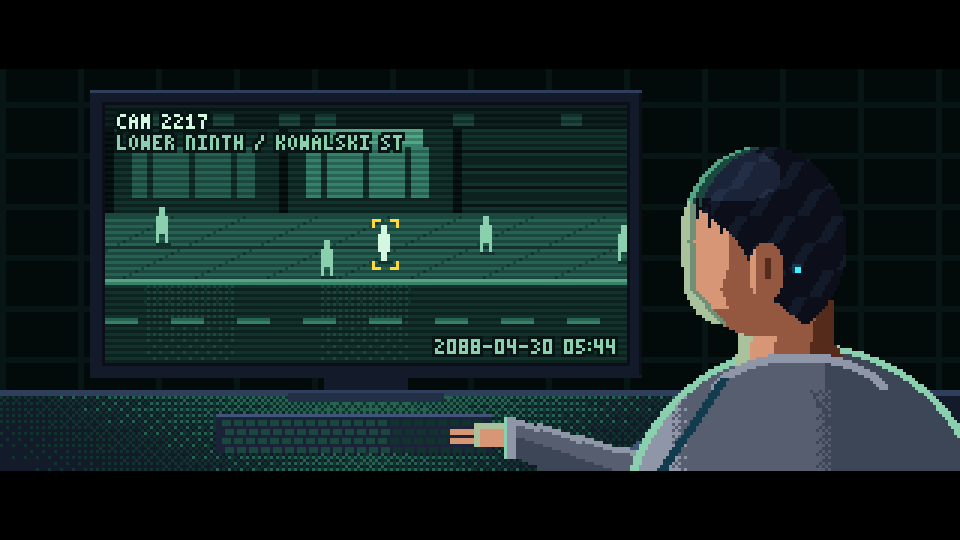
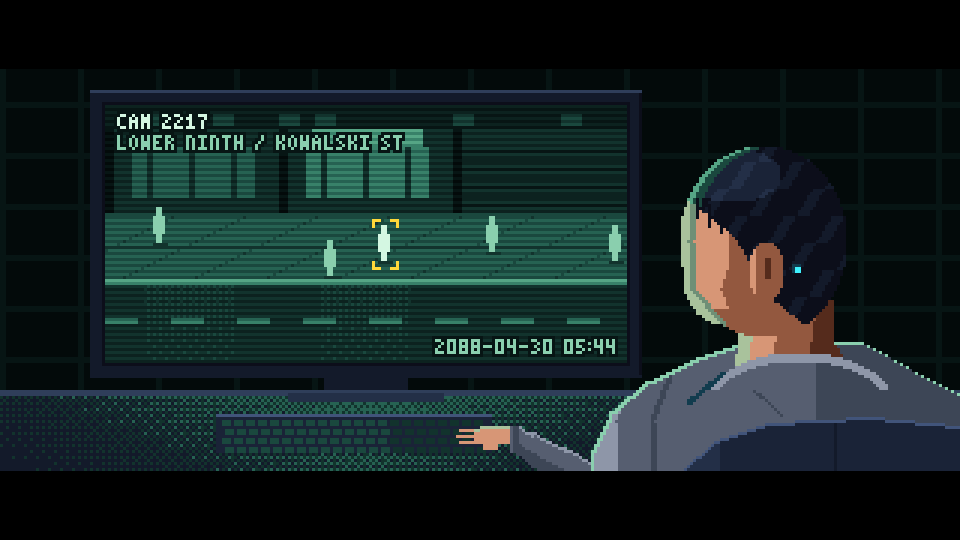
The intro's shots 2 and 4 after the notes. Juno's body at the desk is redrawn with a person's proportions instead of a dome: shoulders about two and a half heads wide, the near one falling away into the arm with its seam, the far one running out of the picture, flat bands of the grey with the monito

diff --git a/assets/intro.js b/assets/intro.js
@@ -1,7 +1,7 @@
 // Generated by tools/build-atlas.mjs. Do not edit.
 Cutaway.assets.pack({
   images: {
[2 lines of base64/hex data omitted]
   },
   anims: {
     "intro_desk_bg": { image: "intro_atlas", frames: [[1,1,320,180,100]] },

diff --git a/art/intro/desk.px.js b/art/intro/desk.px.js
@@ -70,32 +70,41 @@ function paint(c, mode) {
   c.rect(72, 138, 92, 13, "B"); c.hline(72, 138, 92, "E")
   for (let y = 140; y < 150; y += 3) for (let x = 74 + (y % 2); x < 161; x += 4) c.rect(x, y, 3, 2, x < 130 ? "4" : "3")
 
-  // Juno. Her chair's rim behind her, low on the right
-  for (let y = 120; y < H; y++) for (let x = 196; x < W; x++) {
-    if (inE(x, y, 268, 196, 84, 66)) c.px(x, y, inE(x, y, 268, 197, 82, 63) ? (x < 232 ? "C" : "B") : "E")
-  }
-  // the far arm's forearm comes out past her body to the keys; the sleeve, its cuff, the hand is the game's
+  // Juno, from behind: her shoulders about two and a half heads wide, the near one falling away to the arm, the far
+  // one running out of the picture; the chair's high back nearest to us covers her from the shoulder blades down.
+  // Flat bands of the grey, not a gradient: it is cloth. Only the edge toward the monitor catches its light.
+  // The forearm first, going away from us to the keys, narrower toward the wrist; the upper arm comes over its elbow
   for (let t = 0; t <= 1; t += 0.01) {
-    const x = Math.round(212 + (172 - 212) * t), y = Math.round(160 + (146 - 160) * t), r = Math.round(9 - 3 * t)
-    for (let dy = -r; dy <= r; dy++) c.rect(x, y + dy, 2, 1, dy < -r + 2 ? "G" : dy < 0 ? "g" : "h")
+    const x = Math.round(202 + (171 - 202) * t), y = Math.round(164 + (146 - 164) * t), r = Math.round(7 - 3 * t)
+    for (let dy = -r; dy <= r; dy++) c.rect(x, y + dy, 2, 1, dy === -r ? "G" : dy <= 1 ? "g" : "h")
   }
-  c.rect(168, 139, 4, 14, "G"); c.rect(168, 139, 1, 14, "8")
-  // the shoulders and back in Halcyon's grey: lit along the edge toward the monitor, dark to the right
+  c.rect(170, 142, 3, 9, "h"); c.vline(170, 142, 9, "g")                                                       // the cuff
+  // the jacket: neck, the near shoulder down into the arm; the far shoulder out of the picture
+  const JACKET = [[247, 114], [232, 119], [215, 127], [203, 137], [197, 150], [193, 180], [320, 180], [320, 131], [304, 123], [288, 114]]
+  const inJacket = (x, y) => { let on = false; for (let i = 0, j = JACKET.length - 1; i < JACKET.length; j = i++) {
+    const [xi, yi] = JACKET[i], [xj, yj] = JACKET[j]
+    if ((yi > y) !== (yj > y) && x < ((xj - xi) * (y - yi)) / (yj - yi) + xi) on = !on } return on }
+  const seam = (y) => lerp([[122, 224], [140, 217], [165, 218]], y)                                             // the sleeve's seam
   for (let y = 112; y < H; y++) for (let x = 190; x < W; x++) {
-    if (!inE(x, y, 268, 176, 62, 62)) continue
-    const inner = inE(x, y, 268, 176, 59, 60), s = (x - 206) / 110
-    if (!inner) { c.px(x, y, "8"); continue }
-    c.px(x, y, s + (bay(x, y) - 0.5) * 0.06 < 0.18 ? "G" : s + (bay(x, y) - 0.5) * 0.06 < 0.62 ? "g" : "h")
+    if (!inJacket(x, y)) continue
+    if (!inJacket(x - 1, y) || !inJacket(x - 1, y - 1) || !inJacket(x, y - 1) && x < 248) { c.px(x, y, "8"); continue }   // the monitor's light on its edge
+    const sx = seam(y)
+    if (Math.abs(x - sx) < 1 && y > 122) { c.px(x, y, "h"); continue }
+    c.px(x, y, x < sx ? (x < sx - 12 ? "G" : "g") : x < 272 ? "g" : "h")
   }
-  c.line(270, 130, 300, 180, "h")                                                                                 // the seam down the shoulder
+  for (let t = 0; t <= 1; t += 0.03) { c.px(Math.round(238 + 22 * t), Math.round(126 + 12 * t * t), "h") }      // a fold across the back
   // the neck, into the collar
   for (let y = 100; y < 128; y++) { const l = lerp([[100, 248], [128, 244]], y), r = lerp([[100, 278], [114, 278], [128, 286]], y)
     for (let x = Math.round(l); x < r; x++) c.px(x, y, (x - l) < 4 ? "l" : (x - l) < 12 ? "S" : (x - l) < 24 ? "s" : "O") }
-  // the collar stands round the neck; the lanyard runs out of it and down over the shoulder
+  // the collar stands round the neck; the lanyard comes out of it and over the shoulder to the front
   for (let y = 116; y < 130; y++) for (let x = 236; x < 296; x++) {
-    if (inE(x, y, 266, 134, 31, 17)) c.px(x, y, !inE(x, y, 266, 136, 30, 16) ? "G" : (x - 206) / 110 < 0.62 ? "g" : "h")
+    if (inE(x, y, 266, 134, 31, 17)) c.px(x, y, !inE(x, y, 266, 136, 30, 16) ? "G" : x < 272 ? "g" : "h")
   }
-  for (let t = 0; t <= 1; t += 0.02) { const x = Math.round(240 - 26 * t), y = Math.round(126 + 38 * t); c.rect(x, y, 3, 1, "c") }
+  for (let t = 0; t <= 1; t += 0.05) c.rect(Math.round(240 - 12 * t), Math.round(124 + 10 * t), 2, 1, "c")
+  // the chair's back, nearest of all: its rounded top, the lit rim, a seam
+  const chair = (x) => lerp([[222, 170], [228, 156], [238, 147], [256, 141], [290, 139], [320, 142]], x)
+  for (let x = 222; x < W; x++) { const top = Math.round(chair(x))
+    for (let y = top; y < H; y++) c.px(x, y, y === top ? "E" : x === 278 ? "A" : x < 240 ? "C" : "B") }
   // the head: skull and jaw; hair over the skull and behind the ear, skin before it (a lost profile: we see the
   // cheek, not the eye); the monitor's light along the cheek's edge and the hair's
   const head = (x, y) => inE(x, y, 254, 80, 28, 32) || inE(x, y, 241, 91, 14, 17)
@@ -130,13 +139,19 @@ function paint(c, mode) {
   for (let y = 0; y < H; y++) for (let x = 0; x < W; x++) { const k = c.key(x, y), d = DARK[k]; if (d) c.px(x, y, d) }
   c.rect(SX, SY, SW, SH, "0")
   const fx = SX + 112, fy = SY + 20
+  // a reflection in a monitor is never sharp: only a raster of her, fading out toward the back of her head
   for (let y = SY; y < SY + SH; y++) for (let x = SX; x < SX + SW; x++) {
-    if (inE(x, y, fx + 7, fy + 18, 16, 20) || inE(x, y, fx + 6, SY + SH + 8, 34, 24)) c.px(x, y, "1")     // her hair, her shoulders
-    if (y > fy + 34 && inE(x, y, fx + 9, fy + 46, 8, 12)) c.px(x, y, "2")                                  // her neck
+    if (y % 2) continue
+    if ((inE(x, y, fx + 8, fy + 18, 15, 20) || inE(x, y, fx + 8, SY + SH + 8, 32, 24)) && bay(x, y) < 0.32) c.px(x, y, "1")   // her hair, her shoulders
+    if (y > fy + 34 && inE(x, y, fx + 10, fy + 46, 7, 12) && bay(x, y) < 0.5) c.px(x, y, "2")                                 // her neck
   }
-  // the title's hood cut the face off at the back: her short hair covers that edge here
-  const hairline = [[0, 10], [16, 9], [30, 10], [42, 13], [48, 15]]
-  JUNO_FACE.forEach((row, j) => { for (let i = 0; i < row.length; i++) if (row[i] !== ".") c.px(fx + i, fy + j, i < lerp(hairline, j) ? "1" : row[i]) })
+  // the face, on the raster's rows; toward the back (where the title's hood cut it off) it thins out and darkens
+  JUNO_FACE.forEach((row, j) => { for (let i = 0; i < row.length; i++) {
+    const x = fx + i, y = fy + j, front = (i - 1) / 12
+    if (row[i] === "." || bay(x, y) > front * 1.25) continue
+    const k = front < 0.45 ? DIM[row[i]] : row[i]
+    c.px(x, y, y % 2 ? DIM[k] : k)
+  } })
 }
 sprite("intro_desk_bg", { w: W, h: H }, (c) => paint(c, "lit"))
 sprite("intro_desk_last", { w: W, h: H }, (c) => paint(c, "last"))

diff --git a/game/intro_hall.js b/game/intro_hall.js
@@ -2,8 +2,8 @@
 // baked from its map (art/rooms/hall.map.js). At the street's scale, bigger than the screen: the camera moves
 // over it. Its hum and the keys are the only sounds besides the music. Shot 4 is drawn over the same picture
 // (the room `intro_hall_out`, the shot's progress p): the screen walls go out cell by cell from the back corner, then
-// the desks' monitors row by row, back to front, the room darkening with them, Juno's monitor last. No sound: the
-// hum is gone with the room.
+// the desks' monitors row by row, back to front, the room darkening with them; whoever's monitor has gone out stops
+// typing. Juno's stays on: it goes out only in the close-up (game/intro_desk.js). No sound: the hum is gone with the room.
 "use strict";
 
 (function () {
@@ -15,7 +15,7 @@
 
   const { rnd, px } = Halcyon.intro;
   const [CX, CY] = AH.corner, DARK = "#030a0a", BEZEL = "#0c221f";
-  const WALL_END = 0.28, JUNO = "31", JUNO_OUT = 0.93;
+  const WALL_END = 0.28, JUNO = "31";
 
   /** A parallelogram on a wall, by columns (so its edges stay whole pixels): x0..x1, its top rising `slope` px a px. */
   function shear(/** @type {CanvasRenderingContext2D} */ ctx, /** @type {number} */ x0, /** @type {number} */ y0, /** @type {number} */ w, /** @type {number} */ h, /** @type {number} */ slope, /** @type {string} */ key) {
@@ -24,13 +24,16 @@
 
   /** The time a cell of a screen wall goes out: the back corner first. */
   const cellOut = (/** @type {number} */ i, /** @type {number} */ j, /** @type {number} */ side) => 0.02 + (i / 12) * (WALL_END - 0.07) + rnd(i * 31 + j, side + 41) * 0.05;
-  /** The time a desk's monitors go out: row by row, back to front, Juno's last of all. */
-  const deskOut = (/** @type {number} */ r, /** @type {number} */ c) => (`${r}${c}` === JUNO ? JUNO_OUT : WALL_END + 0.03 + r * 0.13 + rnd(r * 7 + c, 43) * 0.08);
+  /** The time a desk's monitors go out: row by row, back to front; Juno's not in this shot. */
+  const deskOut = (/** @type {number} */ r, /** @type {number} */ c) => (`${r}${c}` === JUNO ? Infinity : WALL_END + 0.03 + r * 0.14 + rnd(r * 7 + c, 43) * 0.08);
+  /** @type {Set<string>} who has stopped typing, in this playing of the shot */
+  const stopped = new Set();
 
   Cutaway.room("intro_hall_out", { name: "Beobachtungshalle", background: "hall_bg", size: [576, 416], props: AH.props, float: "hall_out" });
 
   Halcyon.intro.shots.hall_out = (ctx, p, t) => {
     const cam = Cutaway.scene.camera, ox = CX - cam.x, oy = CY - cam.y;
+    if (p < 0.01) stopped.clear();
     // the walls: cells 0.8 x 0.5 m from h 0.45 (26 px along the wall, 15 px high); the right wall runs down to the
     // right, the left one down to the left
     for (const [side, n, dir] of [[0, 13, 1], [1, 10, -1]]) for (let i = 0; i < n; i++) for (let j = 0; j < 7; j++) {
@@ -45,9 +48,13 @@
       const [mx, my] = AH[`m${d.id.slice(1)}`];
       for (let m = 0; m < 3; m++) f(mx + m * 12, my + m * 6, m);
     };
-    for (const d of out) if (p >= deskOut(+d.id[1], +d.id[2])) monitors(d, (x, y) => shear(ctx, x - cam.x + 1, y - cam.y + 1, 10, 8, 0.5, DARK));
+    for (const d of out) if (p >= deskOut(+d.id[1], +d.id[2])) {
+      monitors(d, (x, y) => shear(ctx, x - cam.x + 1, y - cam.y + 1, 10, 8, 0.5, DARK));
+      // played once, their loop ends: the hands finish what they were doing and stay
+      if (!stopped.has(d.id)) { stopped.add(d.id); Cutaway.scene.playProp(d.id, {}); }
+    }
     // the room darkens as the walls' light goes, then the rows'
-    const dim = Math.max(0, Math.min(1, (p - WALL_END + 0.1) / (JUNO_OUT - WALL_END + 0.1)));
+    const dim = Math.max(0, Math.min(1, (p - WALL_END + 0.1) / (1 - WALL_END + 0.1)));
     ctx.fillStyle = `rgba(3, 6, 10, ${(dim * 0.72).toFixed(3)})`;
     ctx.fillRect(0, 0, 320, 180);
     // what is still on keeps its light: its own pixels again, over the dark

diff --git a/game/intro_desk.js b/game/intro_desk.js
@@ -39,8 +39,11 @@
 
   /** Her hand on the keys; press: a pixel down. @param {CanvasRenderingContext2D} ctx @param {number} press @param {string} skin @param {string} lit */
   function hand(ctx, press, skin, lit) {
-    px(ctx, skin, 158, 141 + press, 10, 8); px(ctx, lit, 158, 141 + press, 10, 2); px(ctx, lit, 158, 141 + press, 2, 8);
-    px(ctx, skin, 150, 143 + press, 8, 2); px(ctx, skin, 150, 146 + press, 8, 2);
+    // the back of the hand, narrowing from the wrist; three fingers curving down onto the keys; the thumb under it
+    px(ctx, skin, 160, 142 + press, 10, 6); px(ctx, skin, 158, 143 + press, 2, 5);
+    px(ctx, lit, 160, 142 + press, 10, 1); px(ctx, lit, 158, 143 + press, 2, 1);
+    for (const [y, n] of [[143, 5], [145, 6], [147, 5]]) px(ctx, skin, 158 - n, y + press, n, 1);
+    px(ctx, skin, 161, 148 + press, 5, 2);
   }
 
   /** The feed, its people and the man; his brackets once she has begun to mark him. */

diff --git a/docs/kapitel0-design.md b/docs/kapitel0-design.md
@@ -252,7 +252,7 @@ Geräusche, nur Musik** (2026-11-04). Statt flammender Schlote stehen Kameramast
 | 1 | **Die Beobachtungshalle**, Halcyon Tower, drei Jahre früher: Iso-Ansicht in Spielgröße (30 px pro Meter), die Halle ist größer als der Bildschirm und die Kamera fährt von der Ecke der Bildschirmwände hinunter über die Reihen bis zu Junos Pult in der vordersten Reihe. Vier Reihen zu fünf Pulten, jedes mit einem Menschen vor drei Monitoren; beide Rückwände sind Phosphor-Bildschirme, unter der Decke Kuppelkameras, die die Beobachter beobachten. Sie sitzen in runden Schalensesseln. **Keine Kabel** (2026-11-04): Das Implantat legt die Markierungen über das, was das Auge auf den Monitoren sieht, dafür braucht es keins; nur der kleine Cyan-Punkt hinter dem Ohr (dort, wo Teo sein Lull-Pflaster trägt: story §10a). Auf Junos Pult der Kaktus und die Tasse, über ihrem Sessel der gelbe Mantel. | Brummen, leises Tippen. Datum unten: `2088-04-30 05:45` |
 | 2 | Juno an ihrem Pult, nah, von hinten über die Schulter (Halcyon-Grau, Ausweis am Band). Sie sitzt rechts im Bild und blickt nach links wie auf dem Titelbild, denn die Implantatlinie liegt auf ihrer linken Wange. Ihr Bildschirm: die Kowalski-Straße (`CAM 2217`), Passanten, ein Mann bleibt stehen. Sie markiert ihn, gelb; dabei leuchtet der Punkt hinter ihrem Ohr auf. | Kein Text (2026-11-04): das Markieren reicht. Nur der Ton der Markierung |
 | 3 | Eine Durchsage, Text über die ganze Breite | „Ab morgen übernimmt die automatische Auswertung. Halcyon dankt Ihnen für Ihren Dienst." |
-| 4 | Die Bildschirme der Halle gehen aus, von hinten nach vorn: erst die Wände, von der Ecke aus, dann die Pulte Reihe für Reihe; die Halle wird dunkel, die Kamera geht mit bis zu Juno. Dann nah wie in Einstellung 2: ihr Bildschirm als letzter, er geht aus wie eine Röhre. In ihm spiegelt sich ihr Gesicht, das Gesicht vom Titelbild ohne Kapuze und ohne Linie, ihr zugewandt. | Stille (die Musik blendet aus, das Brummen ist weg) |
+| 4 | Die Bildschirme der Halle gehen aus, von hinten nach vorn: erst die Wände, von der Ecke aus, dann die Pulte Reihe für Reihe; wessen Bildschirm aus ist, hört auf zu tippen. Die Halle wird dunkel, die Kamera geht mit bis zu Juno, ihr Bildschirm brennt noch. Dann nah wie in Einstellung 2: Erst hier geht ihr Bildschirm aus, wie eine Röhre. In ihm spiegelt sich ihr Gesicht, das Gesicht vom Titelbild ohne Kapuze und ohne Linie, ihr zugewandt, nur als Raster, das nach hinten dunkler wird und sich auflöst. | Stille (die Musik blendet aus, das Brummen ist weg) |
 | T | Schwarz | „Das Implantat durften wir behalten. Sie sagten, das Herausnehmen kostet mehr." |
 | D | **Die Transitachse**, abwärts, die erste Seitenansicht: zuerst nah am Karton (ein Kaktus, eine Tasse, der gelbe Regenmantel und ein Datenstick mit dem Aufkleber `EVAL-7 // DELETE`, gemalt und englisch wie alle Technik der Stadt; eine Sekunde lesbar, nicht kommentiert), dann zieht die Kamera auf: Juno mit dem Karton im gläsernen Aufzug, die Ringe rasen vorbei. ~10 s. | Kein Text. Eine langsame, melancholische Melodie |
 | 6 | Schnitt: heute. Ein Phosphor-Feed auf dem Röhrenmonitor, das selbstgebaute Deck, Junos Hand auf der Maus. Gelber Ärmel. | `2091-11-03 21:30` |
